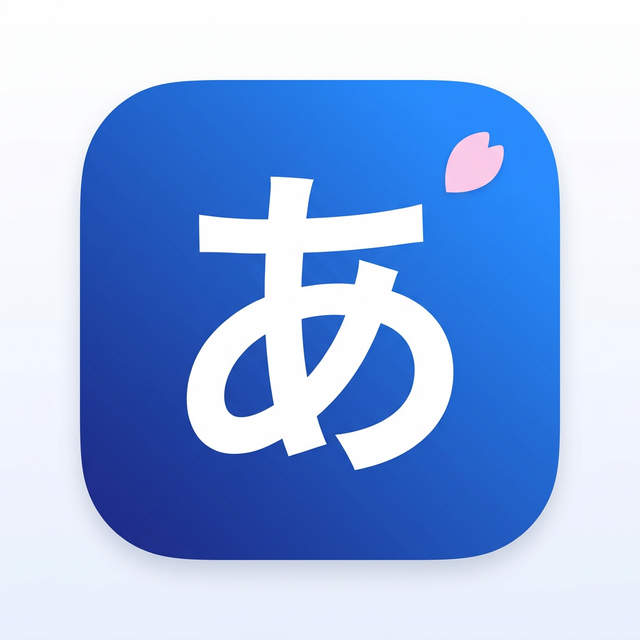
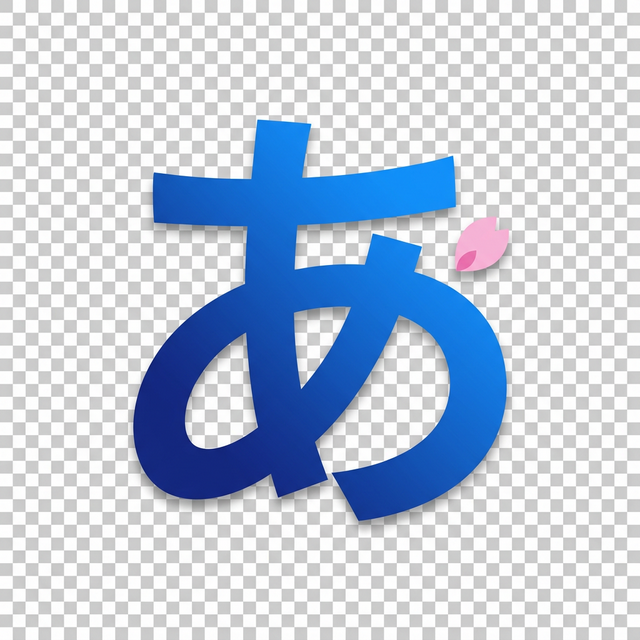
update 6
fix logo với lại bảng thông báo (TutorialPopup)

diff --git a/index.html b/index.html
@@ -1457,9 +1457,16 @@ function LoginApp({ onLogin, onGuest }) {
   );
 }
 
-function TutorialPopup({ onClose }) {
+function TutorialPopup({ onClose, userKey }) {
+  const [dontShow, setDontShow] = React.useState(false);
+  const handleClose = () => {
+    if (dontShow) {
+      localStorage.setItem(`kana_tutorial_hidden_${userKey}`, 'true');
+    }
+    onClose();
+  };
   return (
-    <div className="fixed inset-0 bg-black/60 backdrop-blur-sm z-[999] flex items-center justify-center p-4" onClick={onClose}>
+    <div className="fixed inset-0 bg-black/60 backdrop-blur-sm z-[999] flex items-center justify-center p-4" onClick={handleClose}>
       <div className="bg-white dark:bg-gray-800 rounded-3xl shadow-2xl max-w-lg w-full max-h-[85vh] overflow-y-auto p-6 sm:p-8 pop-in border border-gray-100 dark:border-gray-700" onClick={e=>e.stopPropagation()}>
         <h2 className="text-2xl font-extrabold text-[#3182ce] dark:text-blue-400 mb-1 flex items-center gap-2">🇯🇵 Chào mừng đến Za Pan!</h2>
         <p className="text-sm text-gray-500 dark:text-gray-400 mb-5">Ứng dụng học Tiếng Nhật miễn phí, offline 100%</p>
@@ -1491,7 +1498,12 @@ function TutorialPopup({ onClose }) {
           <p className="text-xs text-yellow-700 dark:text-yellow-300 font-semibold">💡 Mẹo: Chọn bảng chữ cái (Hiragana/Katakana) hoặc tab Từ Vựng/Kanji ở trên, rồi tick chọn các nhóm muốn học trước khi bắt đầu!</p>
         </div>
 
-        <button onClick={onClose} className="w-full mt-6 bg-[#3182ce] text-white py-3.5 rounded-xl font-bold text-lg hover:bg-[#2b6cb0] active:scale-95 transition-all shadow-lg shadow-blue-500/30">
+        <label className="flex items-center gap-2 mt-5 cursor-pointer select-none">
+          <input type="checkbox" checked={dontShow} onChange={e=>setDontShow(e.target.checked)} className="w-4 h-4 rounded border-gray-300 text-[#3182ce] focus:ring-[#3182ce] cursor-pointer" />
+          <span className="text-sm text-gray-500 dark:text-gray-400">Không hiển thị lại cho lần sau</span>
+        </label>
+
+        <button onClick={handleClose} className="w-full mt-4 bg-[#3182ce] text-white py-3.5 rounded-xl font-bold text-lg hover:bg-[#2b6cb0] active:scale-95 transition-all shadow-lg shadow-blue-500/30">
           Bắt Đầu Học Ngay! 🚀
         </button>
       </div>
@@ -1509,11 +1521,8 @@ function App() {
     localStorage.setItem('kana_is_guest', 'false');
     setCurrentUser(username);
     setIsGuest(false);
-    // Show tutorial on first login
-    const tutKey = `kana_tutorial_shown_${username}`;
-    if (!localStorage.getItem(tutKey)) {
+    if (!localStorage.getItem(`kana_tutorial_hidden_${username}`)) {
       setShowTutorial(true);
-      localStorage.setItem(tutKey, 'true');
     }
   };
   const handleGuest = () => {
@@ -1522,10 +1531,8 @@ function App() {
     localStorage.setItem('kana_is_guest', 'true');
     setCurrentUser(guestName);
     setIsGuest(true);
-    const tutKey = `kana_tutorial_shown_${guestName}`;
-    if (!localStorage.getItem(tutKey)) {
+    if (!localStorage.getItem(`kana_tutorial_hidden_${guestName}`)) {
       setShowTutorial(true);
-      localStorage.setItem(tutKey, 'true');
     }
   };
   const handleLogout = () => {
@@ -1540,7 +1547,7 @@ function App() {
   }
   return (
     <>
-      {showTutorial && <TutorialPopup onClose={() => setShowTutorial(false)} />}
+      {showTutorial && <TutorialPopup onClose={() => setShowTutorial(false)} userKey={isGuest ? '__guest__' : currentUser} />}
       <MainApp key={currentUser} currentUser={isGuest ? null : currentUser} isGuest={isGuest} onLogout={handleLogout} />
     </>
   );
